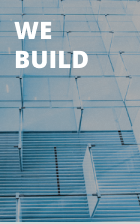
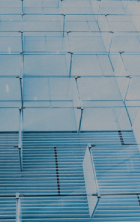
redesign

diff --git a/index.html b/index.html
@@ -20,13 +20,16 @@
     </div>
     <div class="secondPage">
       <header class="secondPageHeader">
-        <img class="secondPageHeaderLogo" src="./Images/building-logo-black.png" />
+        <img
+          class="secondPageHeaderLogo"
+          src="./Images/building-logo-black.png"
+        />
         <div class="secondPageHeaderNavBar">
-          <a href="" class="">HOME</a>
-          <a href="" class="">ABOUT</a>
-          <a href="" class="">SERVICES</a>
-          <a href="" class="">WORK</a>
-          <a href="" class="">CONTACT</a>
+          <a href=".firstPage" class="">HOME</a>
+          <a href=".secondPage" class="">ABOUT</a>
+          <a href=".thirdPage" class="">SERVICES</a>
+          <a href=".forthPage" class="">WORK</a>
+          <a href=".sixthPage" class="">CONTACT</a>
         </div>
       </header>
       <div class="secondPageStory">
@@ -47,9 +50,30 @@
             </p>
           </div>
           <div class="secondPageStoryInfoBlocks">
-            <img src="./Images/plan.png" />
-            <img src="./Images/manage.png" />
-            <img src="./Images/build.png" />
+            <a href=""
+              ><div>
+                <img src="./Images/plan.png" />
+                <h2>
+                  WE <br />
+                  PLAN
+                </h2>
+              </div></a
+            >
+            <a href="">
+              <div>
+                <img src="./Images/manage.png" />
+                <h2>WE MANAGE</h2>
+              </div>
+            </a>
+            <a href="">
+              <div>
+                <img src="./Images/build.png" />
+                <h2>
+                  WE <br />
+                  BUILD
+                </h2>
+              </div>
+            </a>
           </div>
         </div>
       </div>
@@ -124,11 +148,11 @@
           <p class="sixthPageLinksHead">LINKS</p>
           <div class="sixthPageLinksNumber">
             <div class="sixthPageLinksFirst">
-              <a href="">HOME</a>
-              <a href="">ABOUT</a>
-              <a href="">SERVICES</a>
-              <a href="">PROJECTS</a>
-              <a href="">CONTACT US</a>
+              <a href=".firstPage">HOME</a>
+              <a href=".secondPage">ABOUT</a>
+              <a href=".thirdPage">SERVICES</a>
+              <a href=".forthPage">PROJECTS</a>
+              <a href=".sixthPage">CONTACT US</a>
             </div>
             <div class="sixthPageLinksSecond">
               <a href="">FAQ</a>

diff --git a/style.css b/style.css
@@ -95,6 +95,10 @@ p {
   letter-spacing: 0.109rem;
 }
 
+.secondPageHeaderNavBar a:hover {
+  color: #00a4e5;
+}
+
 .secondPageStory {
   width: 65%;
   /* background-color: cyan; */
@@ -139,8 +143,48 @@ p {
   margin-top: 3rem;
 }
 
-.secondPageStoryInfoBlocks img {
+.secondPageStoryInfoBlocks a {
   width: 30%;
+  transition: 1s;
+}
+
+.secondPageStoryInfoBlocks a:hover {
+  opacity: 0.7;
+  transform: scaleY(1.2) scaleX(1.1);
+}
+
+.secondPageStoryInfoBlocks a:hover h2 {
+  top: 20%;
+  
+}
+
+.secondPageStoryInfoBlocks a:hover img {
+  filter:brightness(0.5);
+  filter:drop-shadow(10px 10px 10px black);
+}
+
+.secondPageStoryInfoBlocks div {
+  position: relative;
+  width: 100%;
+}
+
+.secondPageStoryInfoBlocks h2 {
+  position: absolute;
+  top: 5%;
+  left: 10%;
+  font-family: -apple-system, BlinkMacSystemFont, "Segoe UI", Roboto, Oxygen,
+    Ubuntu, Cantarell, "Open Sans", "Helvetica Neue", sans-serif;
+  font-size: 2.4rem;
+  font-weight: 800;
+  color: #fff;
+  letter-spacing: 0.01875rem;
+  transition: 1s;
+  
+}
+
+.secondPageStoryInfoBlocks img {
+  width: 100%;
+  transition: 1.2s;
 }
 
 .secondPageStoryInfoTextFounded {
@@ -233,6 +277,18 @@ p {
   color: #ffffff;
   letter-spacing: 0.05rem;
   background-color: #00a4e5;
+}
+
+.thirdPageHeaderRightButton:hover,
+.forthPageContent div:hover,
+.fivthPageSubscribe div:hover {
+  background-color: #5dc4ec;
+}
+
+.thirdPageHeaderRightButton:active,
+.forthPageContent div:active,
+.fivthPageSubscribe div:active {
+  box-shadow: 0px 0px 4px 2px rgba(95, 83, 87, 0.89);
 }
 
 .thirdPageBlocks {
@@ -415,6 +471,10 @@ p {
   color: #fff;
   letter-spacing: 0.085rem;
   text-decoration: none;
+}
+
+.sixthPageLinks a:hover {
+  color: rgb(150, 139, 139);
 }
 
 .sixthPageLinksHead {

diff --git a/main.js b/main.js
@@ -1,8 +1,22 @@
 var firstPageScroll = document.querySelector('.firstPageScroll'),
-    sixthPage = document.querySelector('.sixthPage')
+    sixthPage = document.querySelector('.sixthPage'),
+    allHrefs = document.querySelectorAll('.secondPageHeaderNavBar a, .sixthPageLinksFirst a')
 
 firstPageScroll.addEventListener('click', scrollDown);
 
+
+
 function scrollDown() {
-    window.scrollTo(0, sixthPage.offsetTop);
+    window.scrollTo({top: sixthPage.offsetTop, behavior: 'smooth'});
 };
+
+document.addEventListener('click', function(e){
+    e.preventDefault();
+    allHrefs.forEach(function(item){
+        if(item === e.target){
+            var id = e.target.getAttribute('href'),
+            top = document.querySelector(id).offsetTop;
+        window.scrollTo({ top: top, behavior: 'smooth'});
+        }
+    })     
+})
